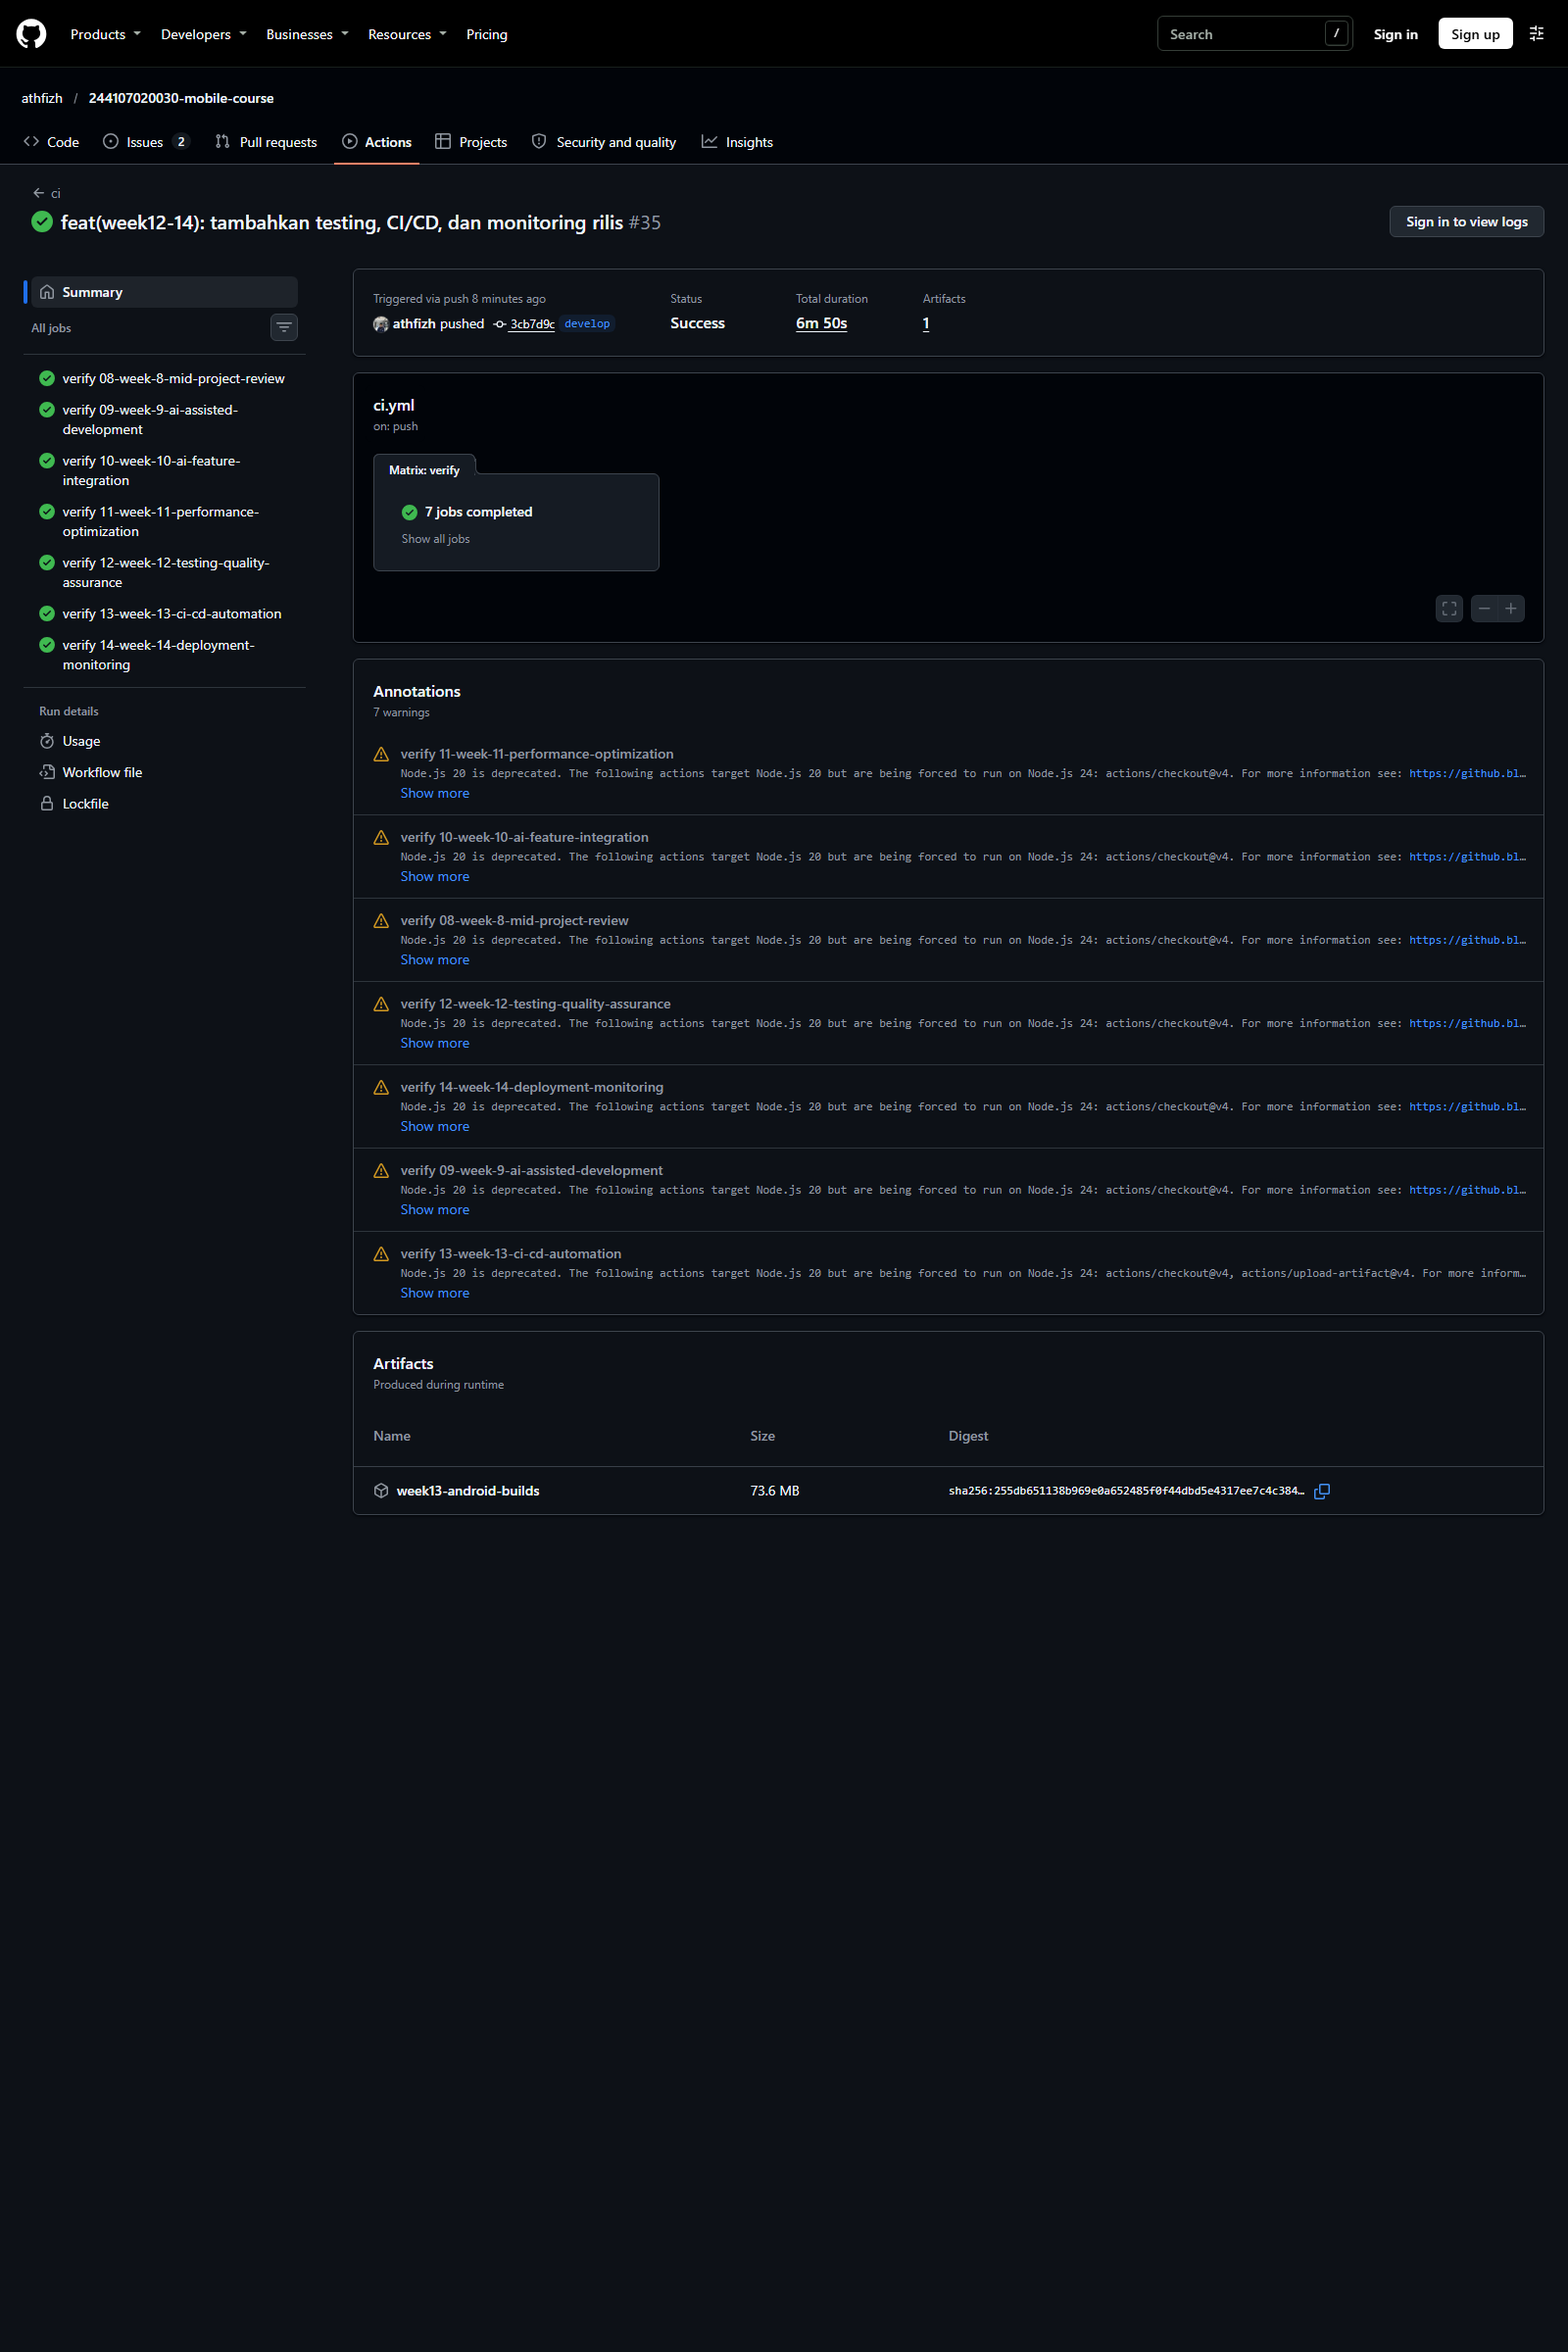
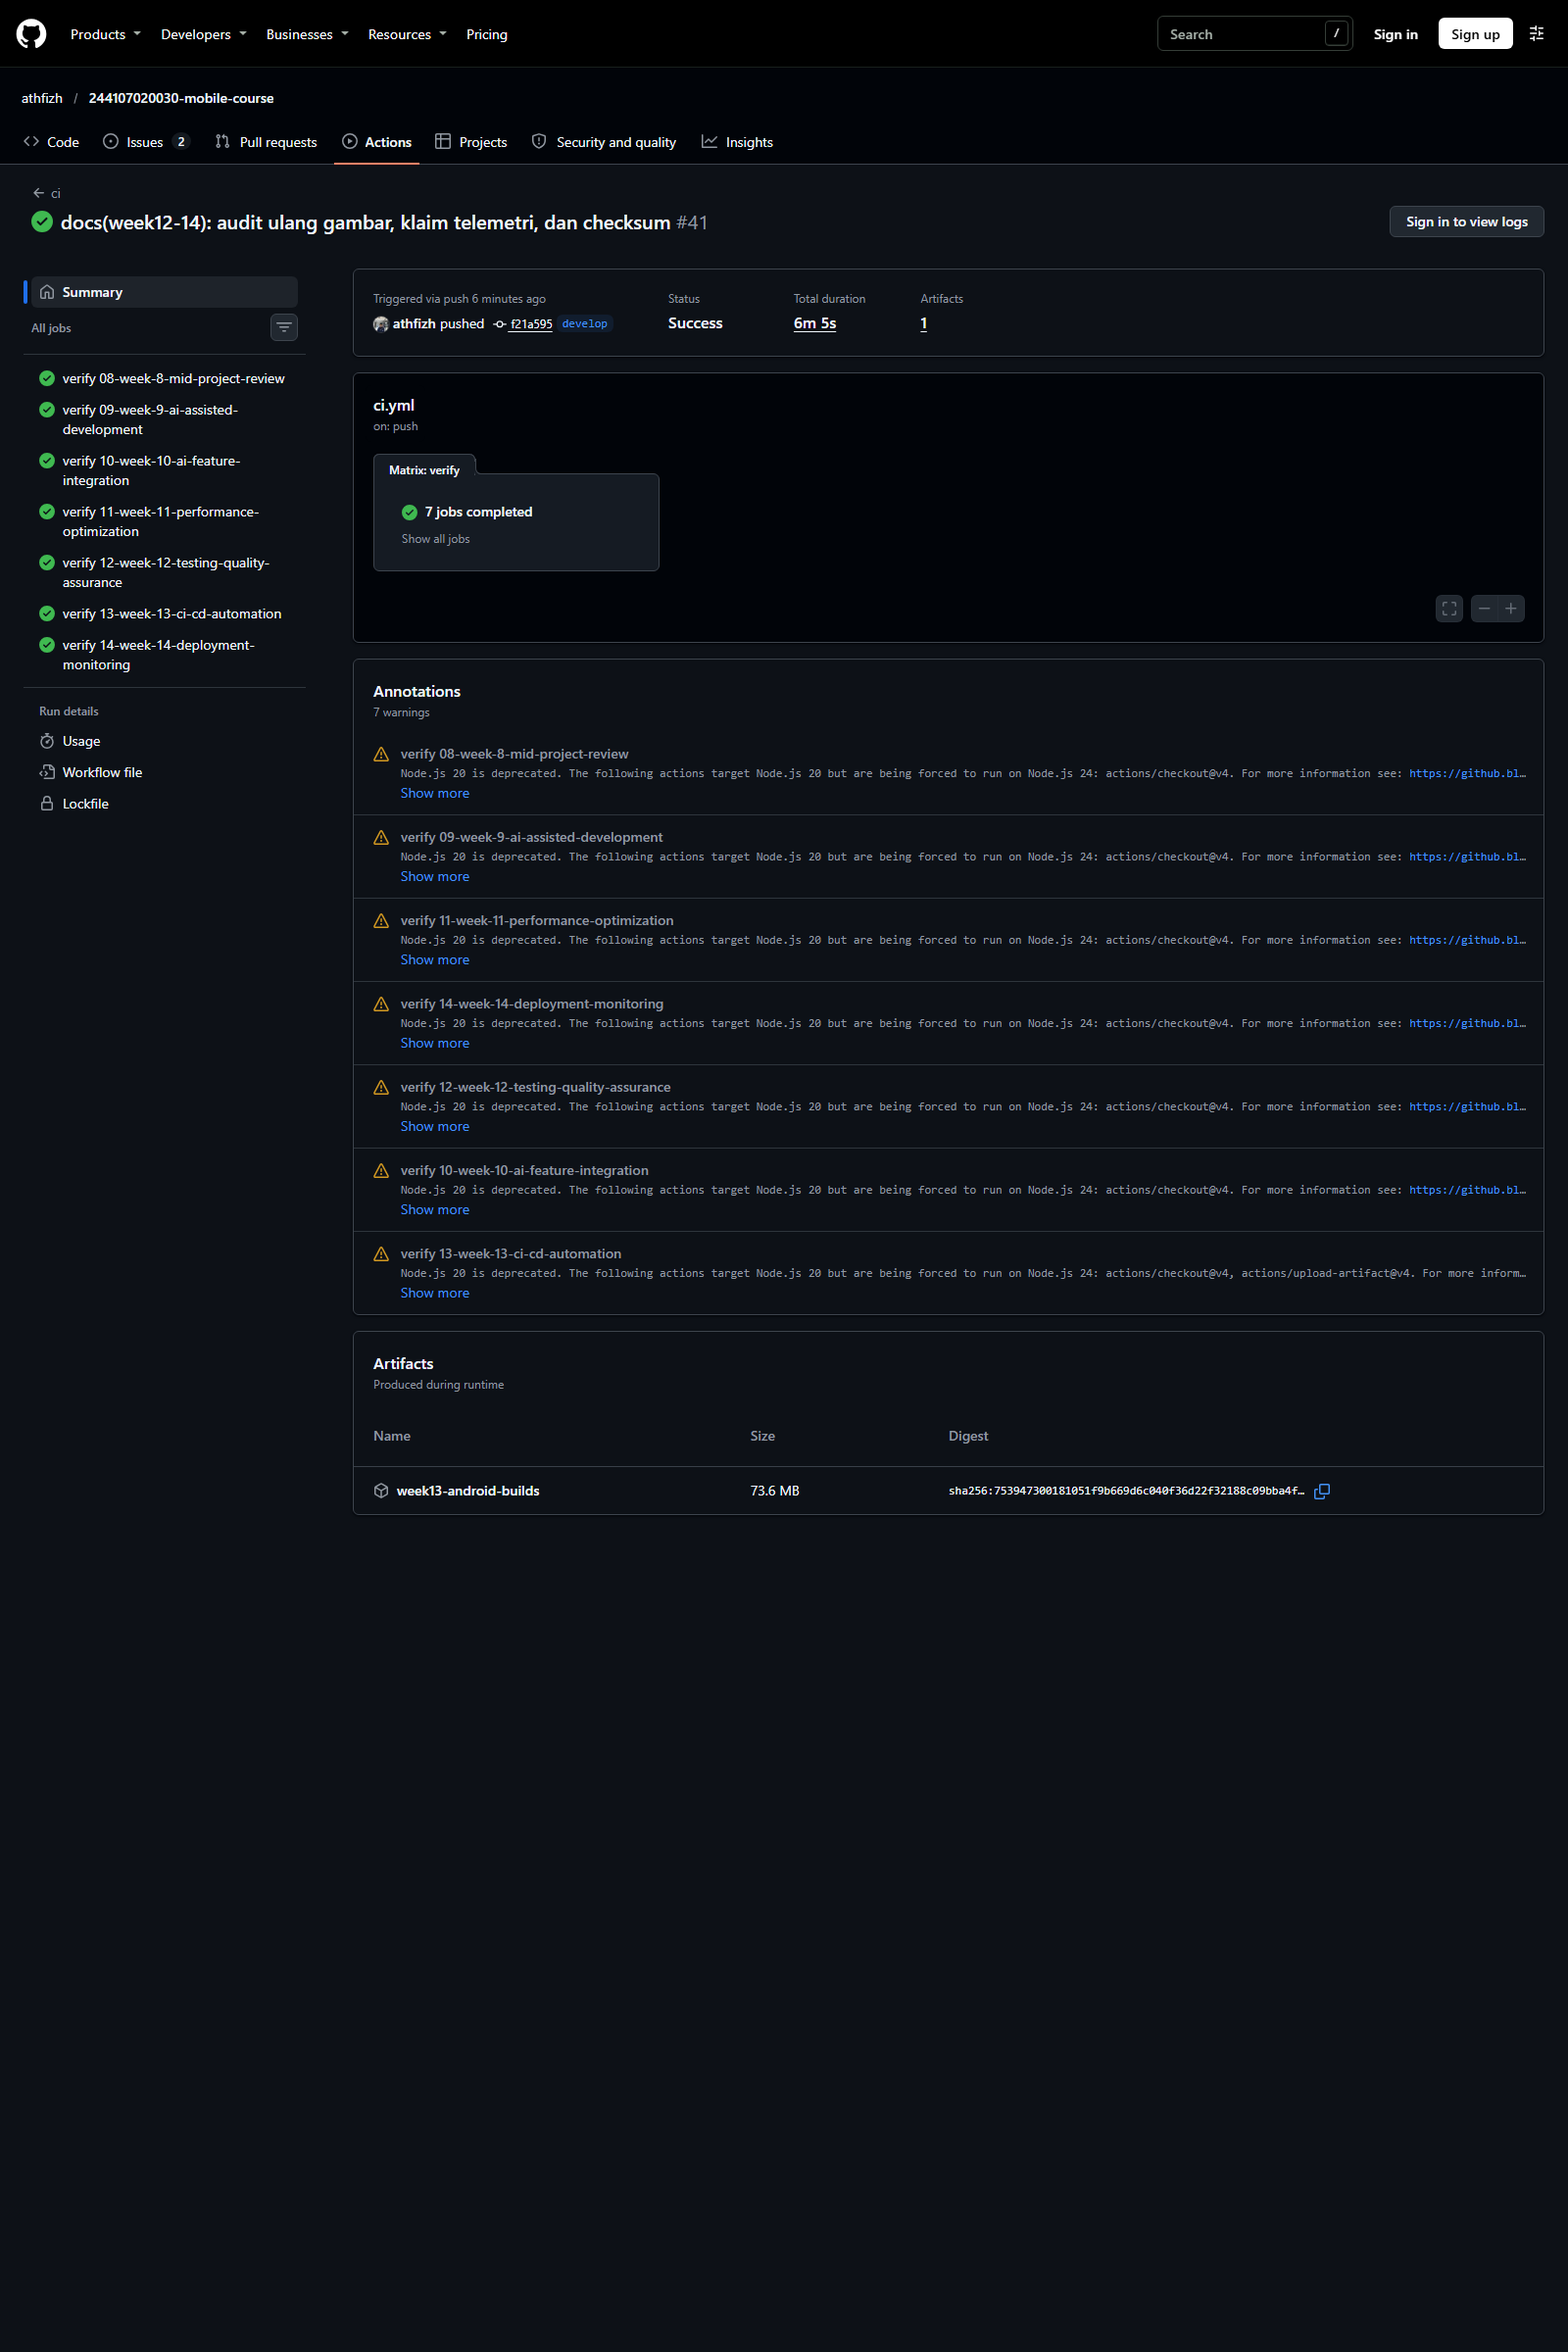
docs(week12-14): rapikan bukti akhir dan sinkronkan narasi audit
- Workflow Actions memakai run #41 pada commit f21a595

- Hapus screenshot lama yang sudah diganti nama dan isinya

- Perjelas pemisahan bukti Analytics vs Crashlytics

diff --git a/13-week-13-ci-cd-automation/README.md b/13-week-13-ci-cd-automation/README.md
@@ -65,7 +65,7 @@ Keterangan versi:
 
 ## Hasil yang Dicapai
 
[2 lines of base64/hex data omitted]
 
 ---
 
@@ -108,8 +108,8 @@ Workflow berhasil menjalankan seluruh tahap pada project ini: format nol perubah
 <img src="screenshots/Praktikum 3 - Workflow Actions Sukses.png" width="700" alt="Workflow Actions Sukses">
 
 > **Keterangan gambar**
-> - Push ke `develop` memicu run #35 pada commit `3cb7d9c`. Semua 7 job matriks Week 8-14 berstatus sukses.
-> - Job Week 13 menyelesaikan format, analyze, test, build APK/AAB, dan upload artefak.
+> - Run audit #41 pada commit `f21a595` menjalankan 7 job matriks Week 8-14 dan semuanya sukses.
+> - Job Week 13 menyelesaikan format, analyze, test, build APK/AAB, dan upload artefak dalam 6 menit 5 detik.
 > - Artefak `week13-android-builds` berukuran 73,6 MB tersedia pada bagian **Artifacts**.
 > - Anotasi `Node.js 20 deprecated` berasal dari action pihak ketiga, bukan kegagalan build.
 

diff --git a/14-week-14-deployment-monitoring/README.md b/14-week-14-deployment-monitoring/README.md
@@ -145,7 +145,7 @@ Artefak build tidak di-commit. Angka dan checksum di atas dihasilkan dari build 
 
 > **Keterangan gambar**
 > - Status monitoring ditampilkan jujur: `Firebase aktif (campus-notify-20030)`.
-> - Halaman ini hanya mengirim nama event dan nama layar.
+> - Halaman ini tidak mengirim email, token, atau isi catatan; hanya nama event, nama layar, dan error uji.
 > - Tombol **Uji Error Non-Fatal** memicu error buatan untuk membuktikan Crashlytics mencatat dan mengantrekan laporan.
 
 <img src="screenshots/Praktikum 3 - Event Beta Dikirim.png" width="300" alt="Event Beta Dikirim">
@@ -166,13 +166,14 @@ Artefak build tidak di-commit. Angka dan checksum di atas dihasilkan dari build 
 > - Log `FA-SVC` menampilkan `Logging event: origin=app,name=beta_feedback_sent`.
 > - Parameter yang tercatat hanya `screen_name=beta_feedback_page`.
 > - Tidak ada email, token, atau isi catatan pada event.
+> - Baris `Network upload successful ... 204` adalah bukti upload Analytics, bukan Crashlytics.
 
 <img src="screenshots/Praktikum 3 - Error Non Fatal Diantrekan.png" width="700" alt="Error Non Fatal Diantrekan">
 
 > **Keterangan gambar**
 > - Crashlytics mencatat `Persisting non-fatal event`, lalu `successfully enqueued to DataTransport` pada build uji `1.2.0+3`.
+> - Gambar ini menggabungkan dua cuplikan logcat dari build yang sama: event non-fatal dan antrean DataTransport.
 > - Report diantrekan ke DataTransport, lalu berkas report lokal dihapus. Upload final Crashlytics tidak muncul di log, jadi statusnya **diantrekan**, bukan **terkirim**.
-> - Baris `Successful upload. Got network response` pada `FA-SVC` adalah bukti upload **Analytics**, bukan Crashlytics.
 
 ### Praktikum 4: Triage dan Release Report
 

diff --git a/notes/learning-journal/week-13-journal.md b/notes/learning-journal/week-13-journal.md
@@ -25,13 +25,13 @@
 - [x] Memeriksa tidak ada keystore, `.env`, atau API key pada berkas yang dilacak.
 - [x] Menambahkan Week 12-14 ke matriks CI repository.
 - [x] Menambahkan langkah build dan upload artefak untuk Week 13 pada CI.
-- [x] Push ke `develop` dan memverifikasi run #35: 7 job matriks sukses, artefak 73,6 MB.
+- [x] Push ke `develop` dan memverifikasi run #35 (awal) serta run #41 (audit akhir): 7 job matriks sukses, artefak 73,6 MB.
 
 ### Kendala & Solusi
 - **Masalah:** Build release berhasil dipasang, tetapi login gagal tanpa pesan yang jelas.
 - **Solusi:** `adb logcat` menunjukkan tidak ada koneksi; ternyata izin `INTERNET` hanya ada di manifest debug. Izin ditambahkan ke `AndroidManifest.xml` utama, lalu build diuji ulang.
 - **Masalah:** Workflow tidak dapat dibuktikan berjalan sebelum perubahan di-push.
-- **Solusi:** Pemeriksaan lokal dijalankan lebih dulu dengan perintah identik; setelah push ke `develop`, run #35 sukses pada 7 job dan artefak `week13-android-builds` (73,6 MB) dapat diunduh.
+- **Solusi:** Pemeriksaan lokal dijalankan lebih dulu dengan perintah identik; setelah push ke `develop`, run #35 dan run #41 sukses pada 7 job dan artefak `week13-android-builds` (73,6 MB) dapat diunduh.
 - **Masalah:** Build pertama lambat dan memakan RAM karena Gradle memakai 8 GB heap.
 - **Solusi:** Heap diturunkan ke 3 GB, worker dibatasi 4, dan emulator dijalankan headless.
 - **Masalah:** Artefak besar tidak boleh masuk repository.
